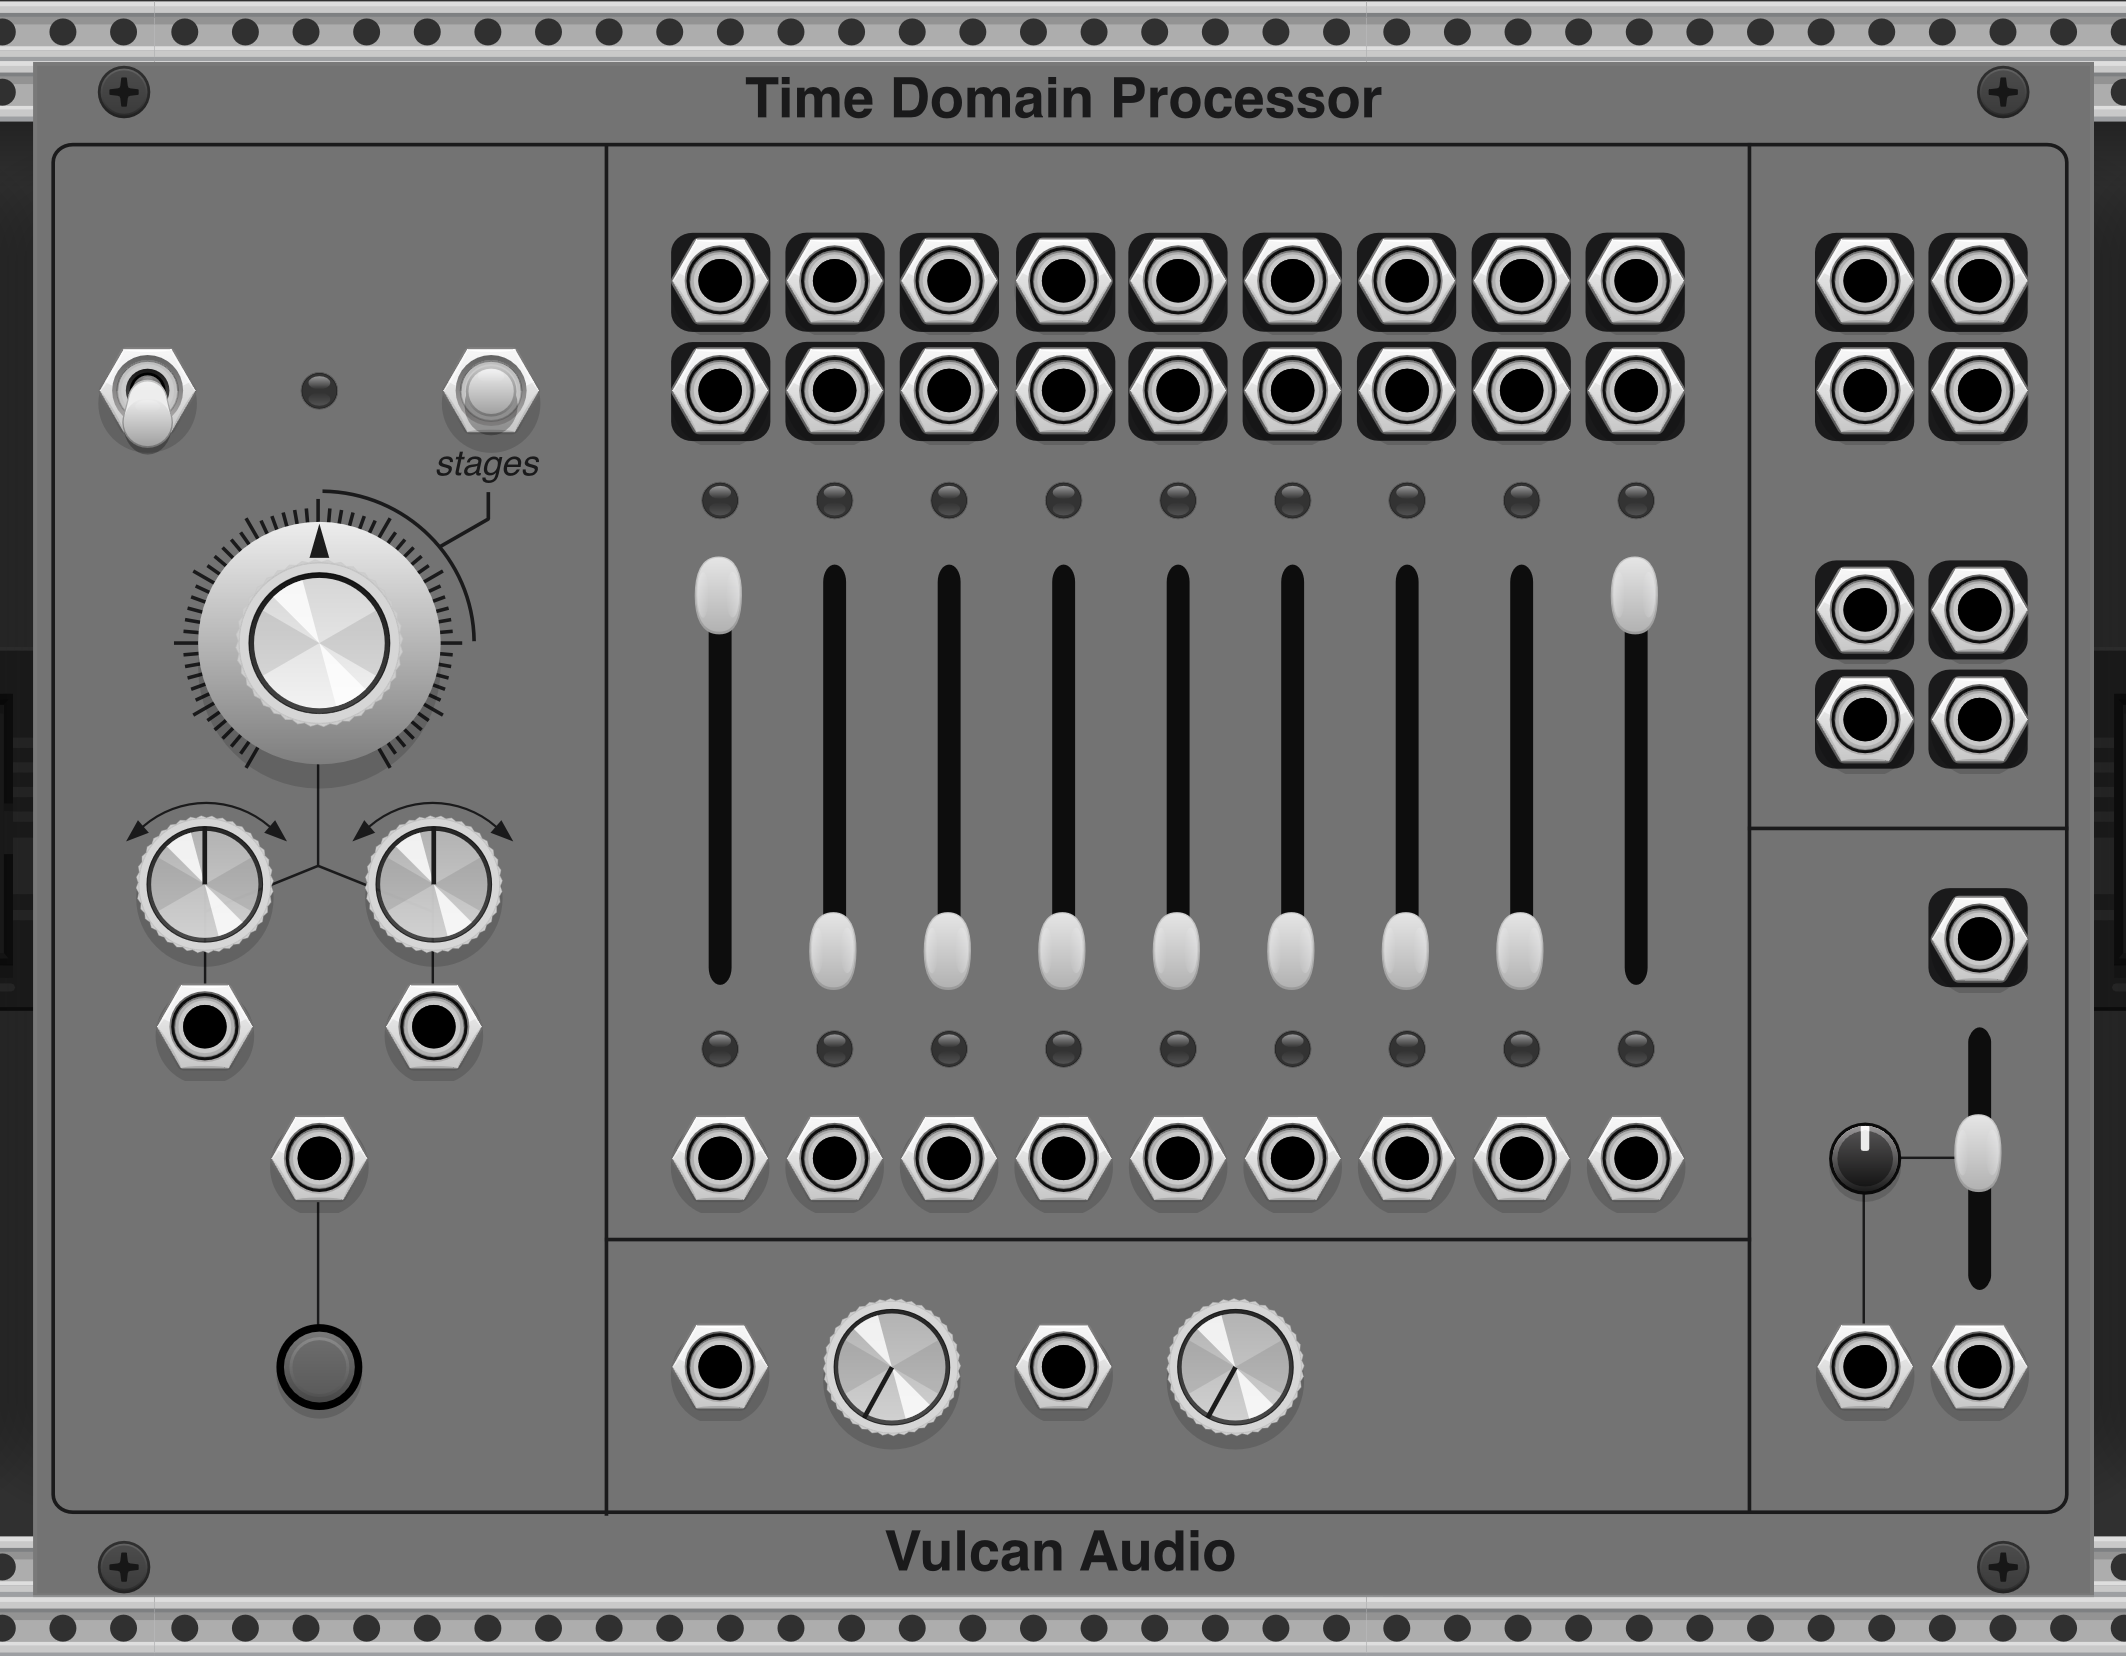
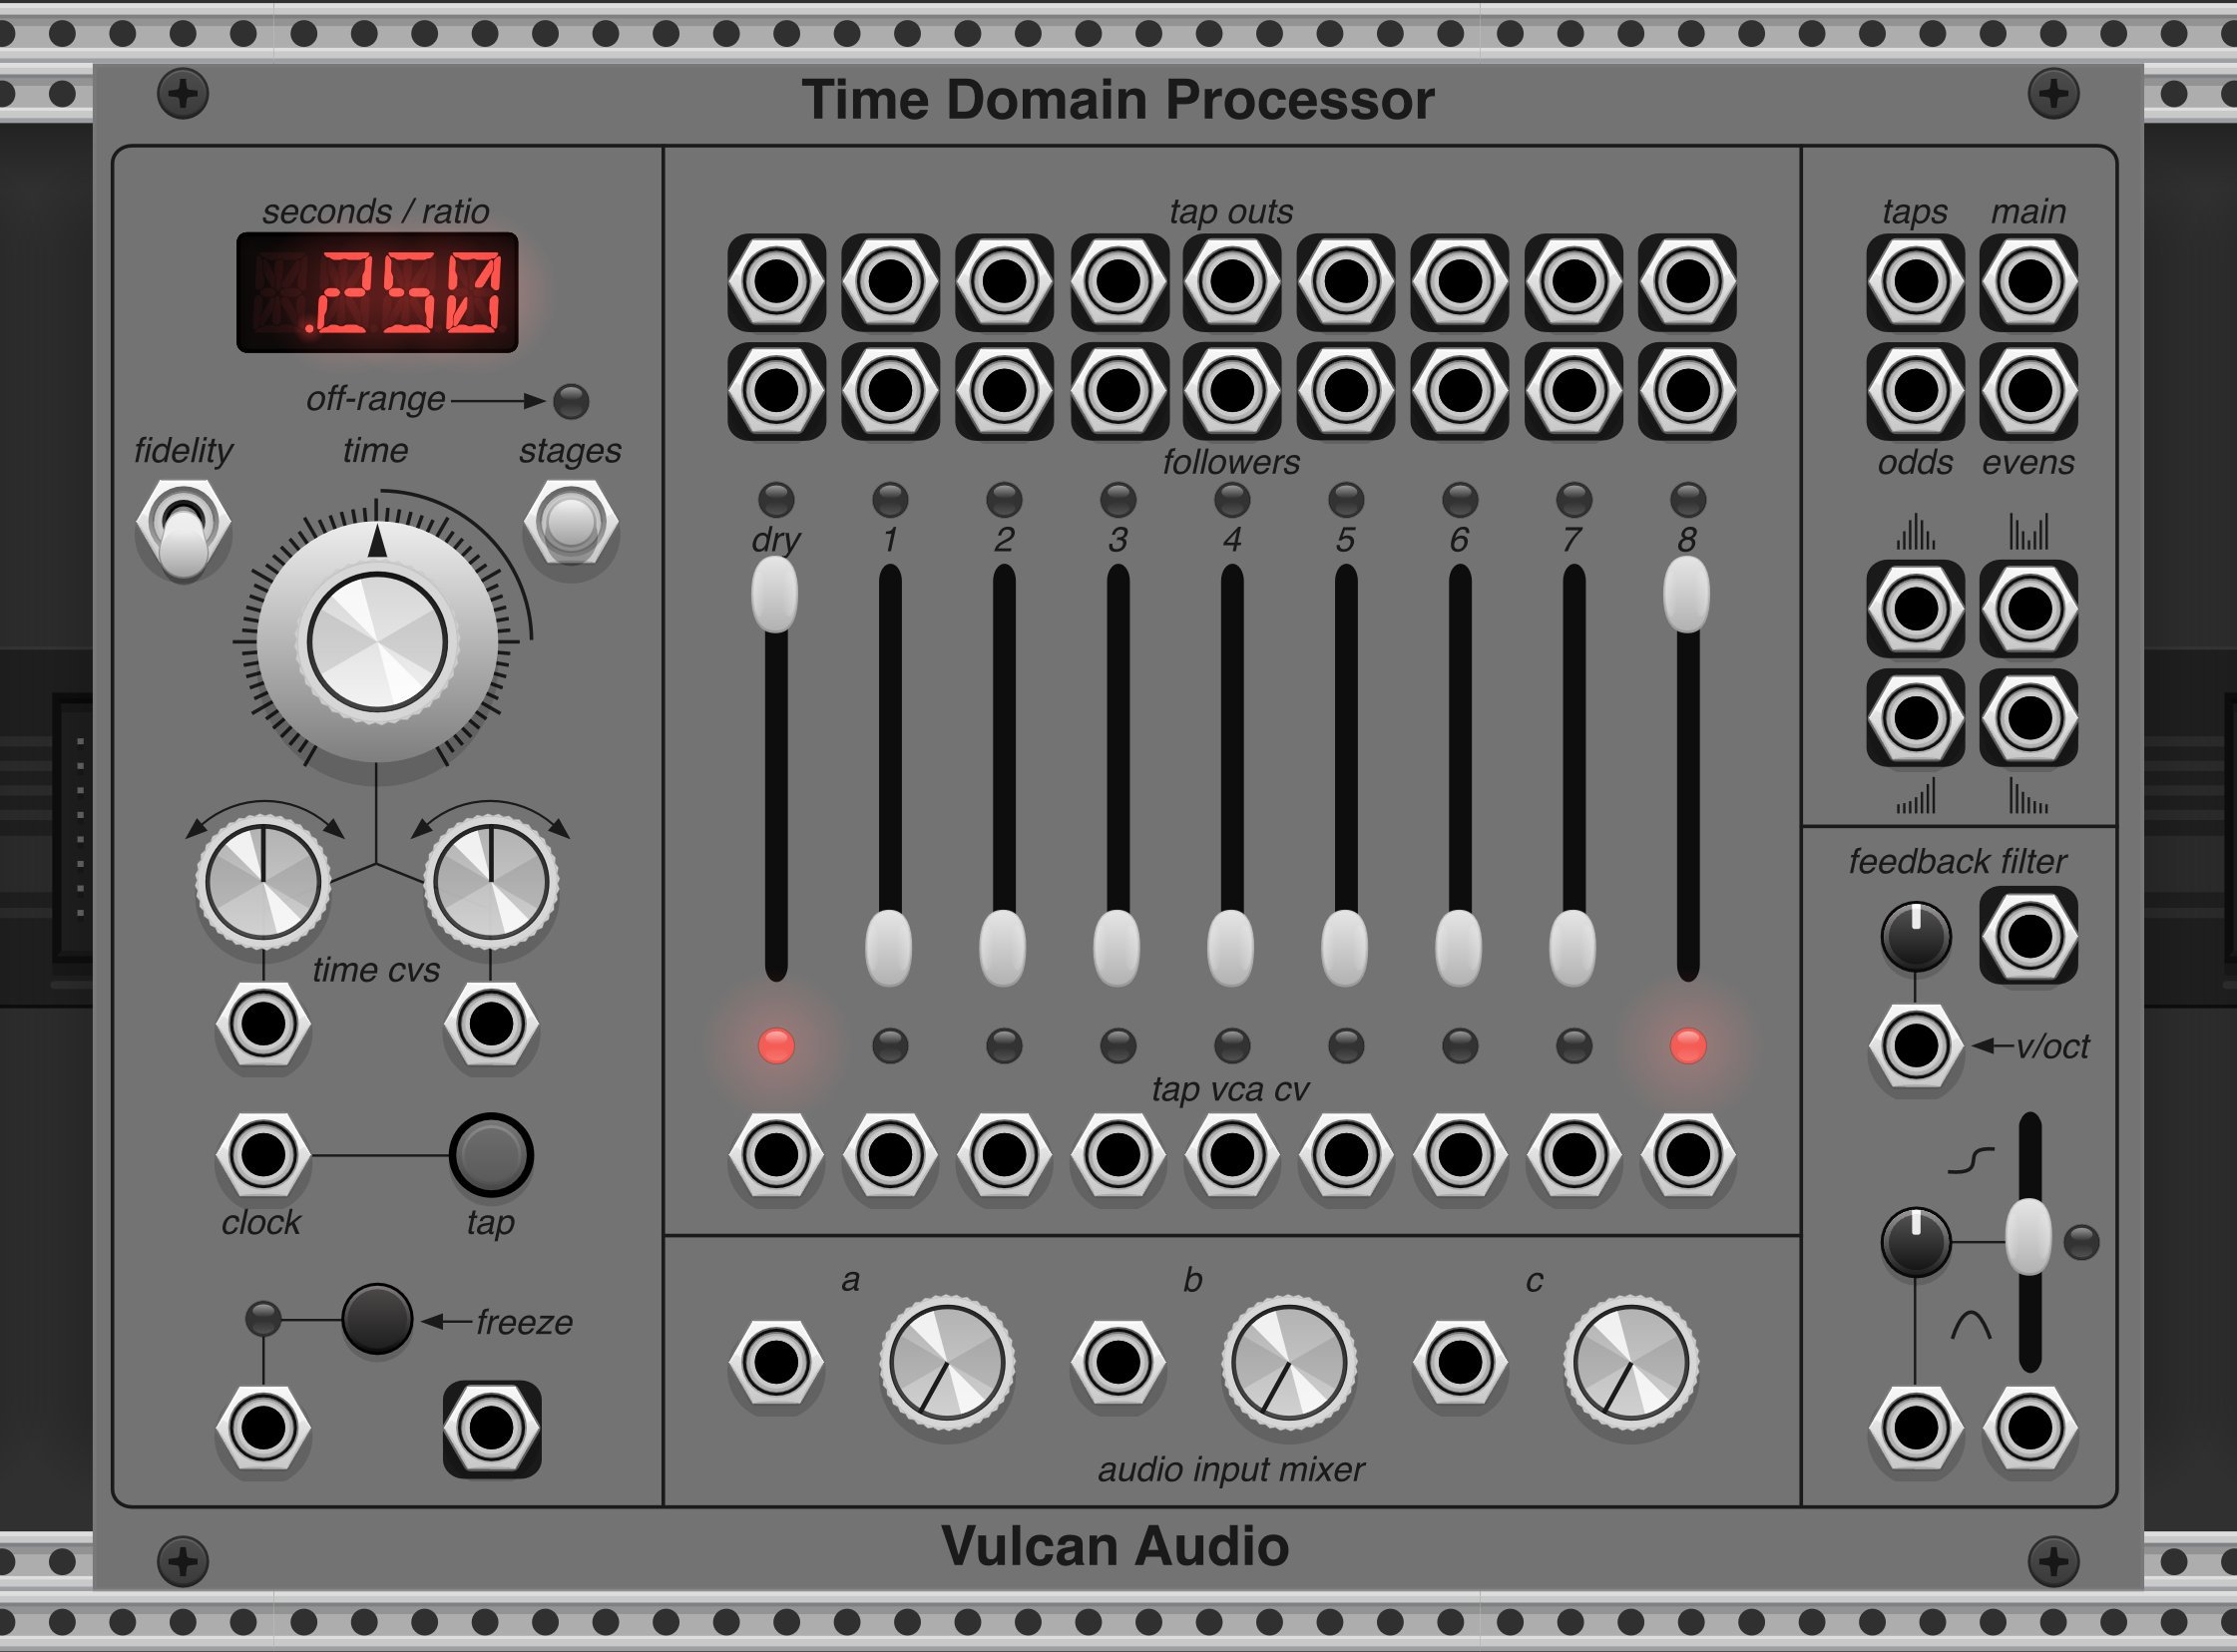
Update TDP now that it is feature complete

diff --git a/index.html b/index.html
@@ -945,38 +945,37 @@
       </div>
     </div>
 
+    <!-- PROJECT 3 — TDP -->
+    <div class="project-card">
+      <div class="project-thumb">
+        <img src="images/TDP.png" alt="Time Domain Processor module screenshot">
+      </div>
+      <div class="project-body">
+        <div>
+          <p class="project-tag">VCV Rack Module</p>
+          <p class="project-name">Time Domain Processor</p>
+          <p class="project-desc">
+            A multitap delay module inheriting its philosophy from the Verbos Multi Delay
+            Processor and the Buchla 288 Time Domain Processor. Rather than a fixed feedback
+            path, exploration is encouraged - individual tap outputs and preweighted tap mixes are
+            exposed for patching through the onboard custom feedback filter or external processing.
+            Two algorithms are available: a precise uncoloured digital mode and a dark grungy BBD
+            emulation. Delay time range can be shifted with selectable stages from short
+            modulation effects to longer echo lines. Sync via external clock or tap tempo.
+          </p>
+        </div>
+        <div class="project-links">
+          <span class="tag-pill">VCV Rack</span>
+          <span class="tag-pill">C++</span>
+          <span class="tag-pill">BBD Emulation</span>
+        </div>
+      </div>
+    </div>
+
     <!-- IN DEVELOPMENT -->
     <div class="in-dev-section">
       <div class="in-dev-header">
         <span class="in-dev-label">In Development</span>
-      </div>
-
-      <!-- PROJECT 3 — TDP -->
-      <div class="project-card project-card--dev">
-        <div class="project-thumb">
-          <img src="images/TDP.png" alt="Time Domain Processor module screenshot">
-          <div class="dev-overlay"><span>In Development</span></div>
-        </div>
-        <div class="project-body">
-          <div>
-            <p class="project-tag">VCV Rack Module / In Development</p>
-            <p class="project-name">Time Domain Processor</p>
-            <p class="project-desc">
-              A multitap delay module inheriting its philosophy from the Verbos Multi Delay
-              Processor and the Buchla 288 Time Domain Processor. Rather than a fixed feedback
-              path, exploration is encouraged - individual tap outputs and preweighted tap mixes are
-              exposed for patching through the onboard tilt filter or external processing. Two
-              algorithms are available: a precise uncoloured digital mode and a dark grungy BBD
-              emulation with selectable stages that shift the delay time range from short
-              modulation effects to longer echo lines. Sync via external clock or tap tempo.
-            </p>
-          </div>
-          <div class="project-links">
-            <span class="tag-pill tag-pill--dev">VCV Rack</span>
-            <span class="tag-pill tag-pill--dev">C++</span>
-            <span class="tag-pill tag-pill--dev">BBD Emulation</span>
-          </div>
-        </div>
       </div>
 
       <!-- PROJECT 4 — QGA -->